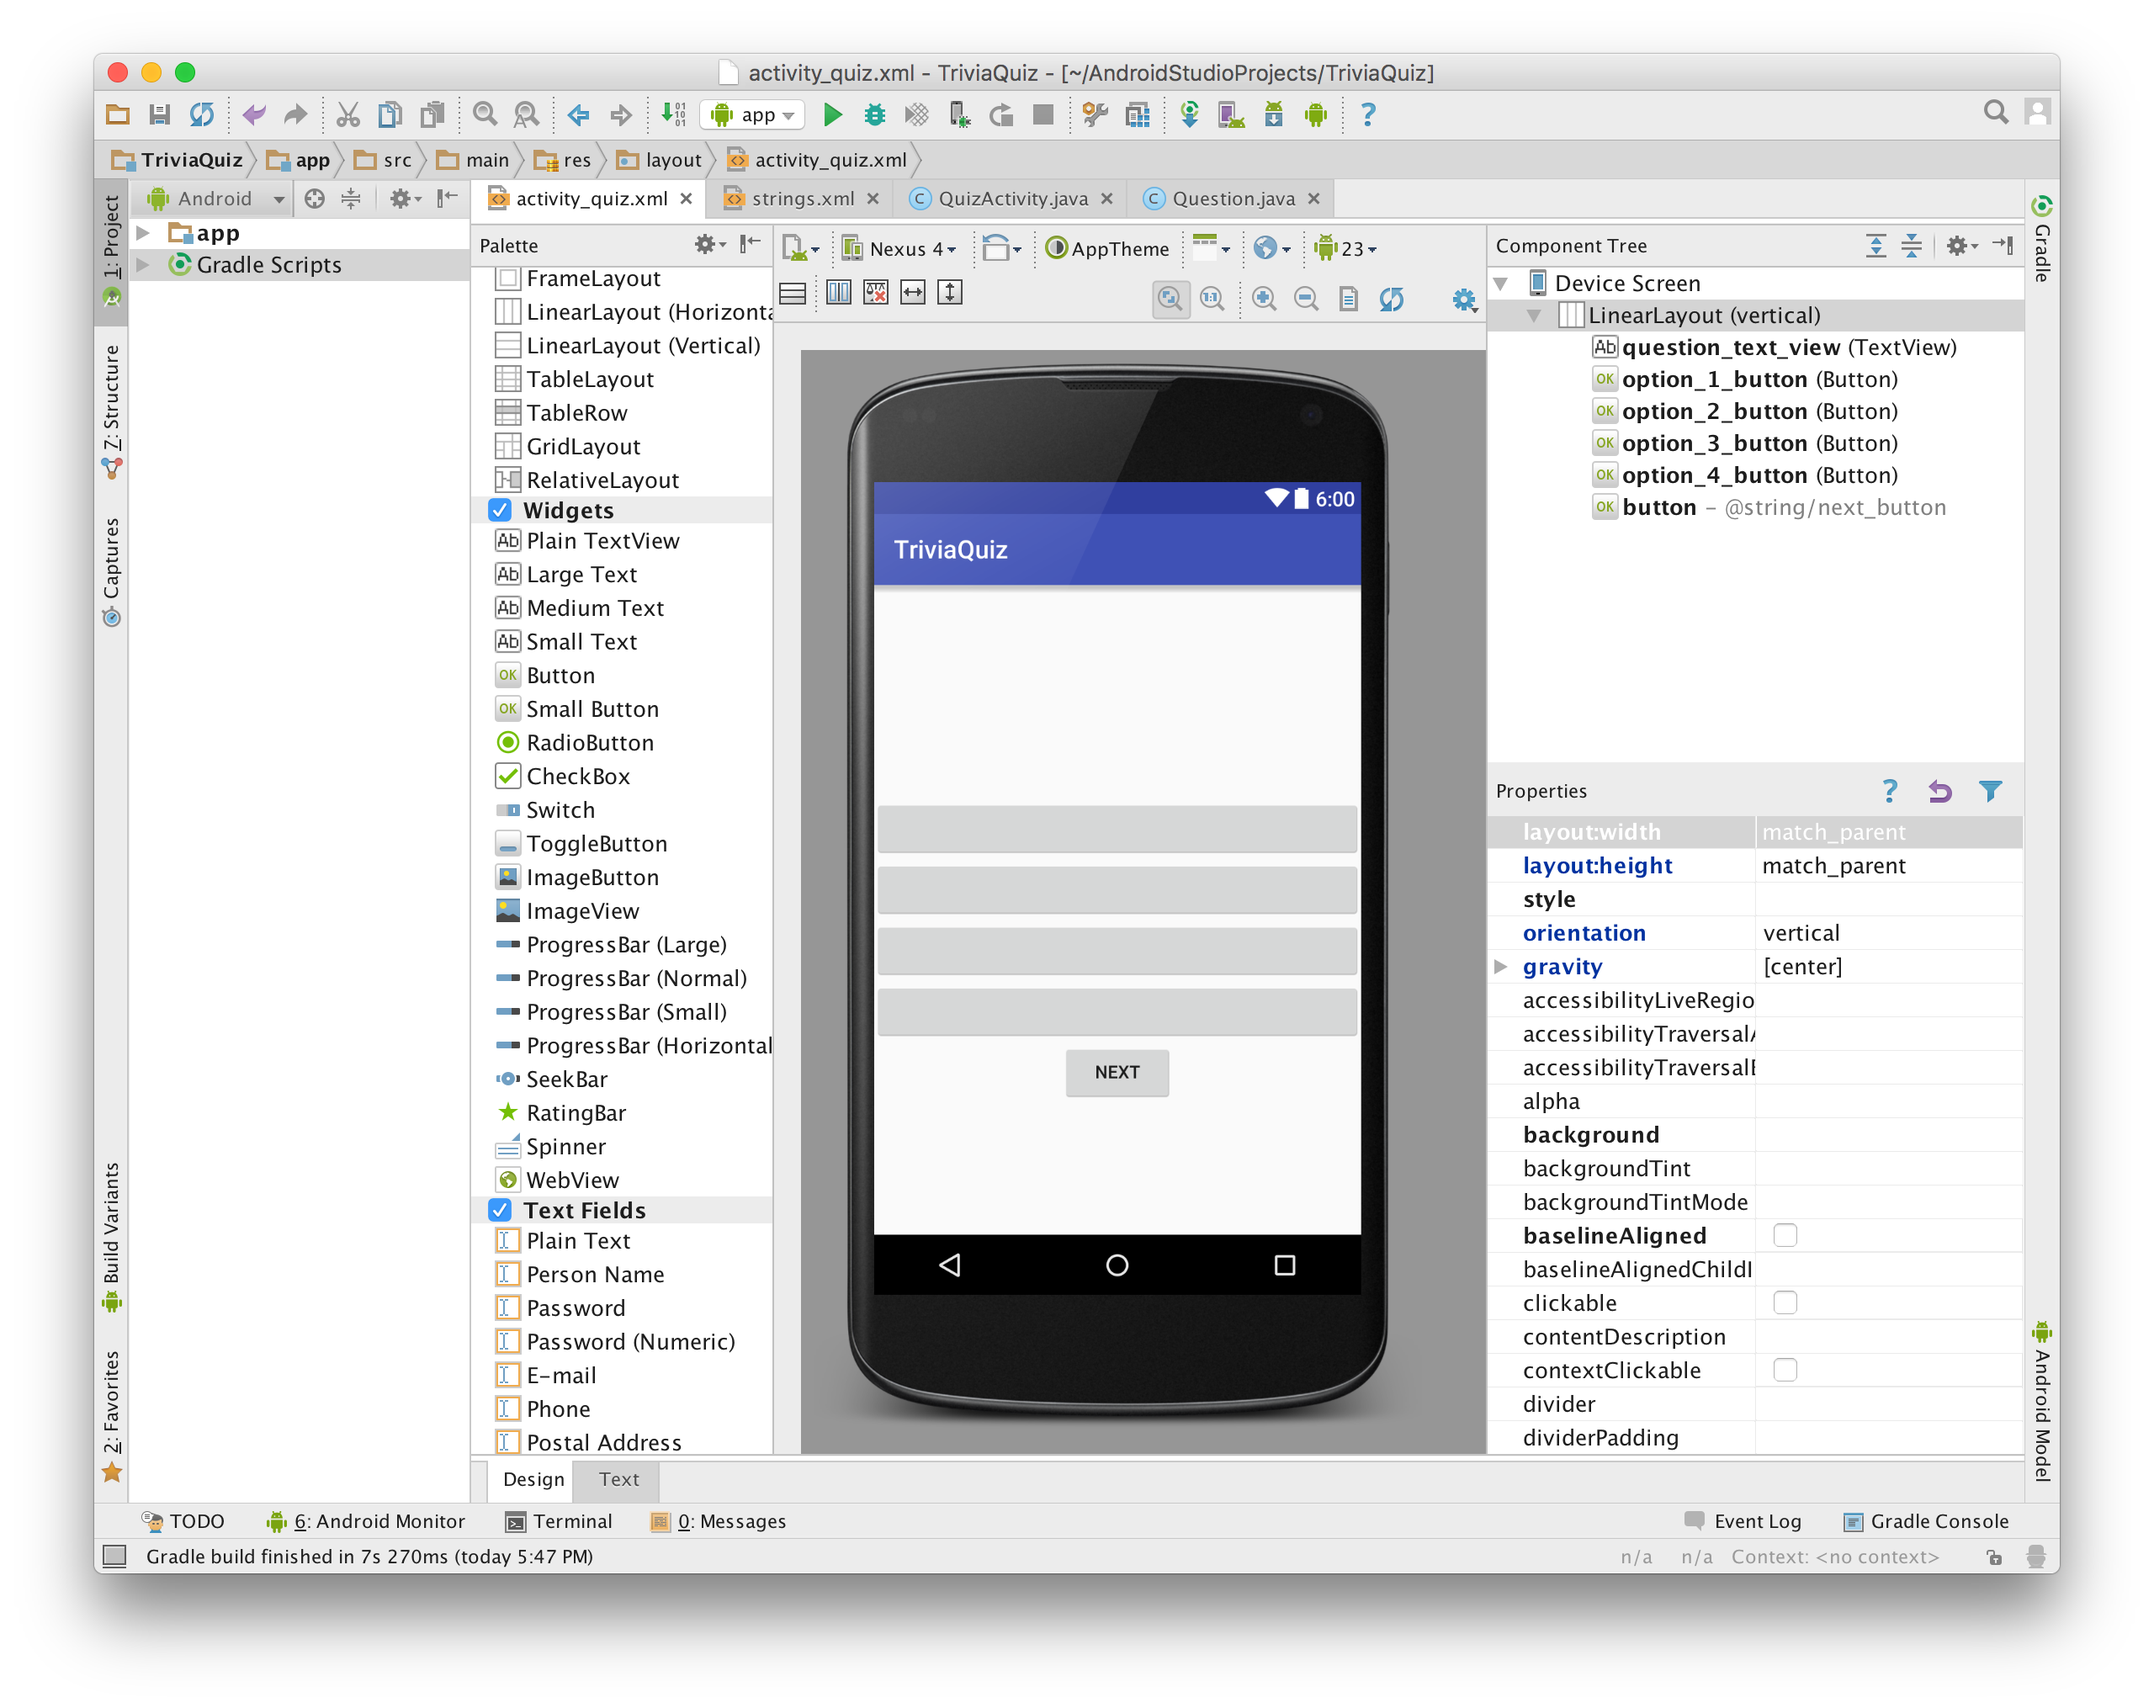
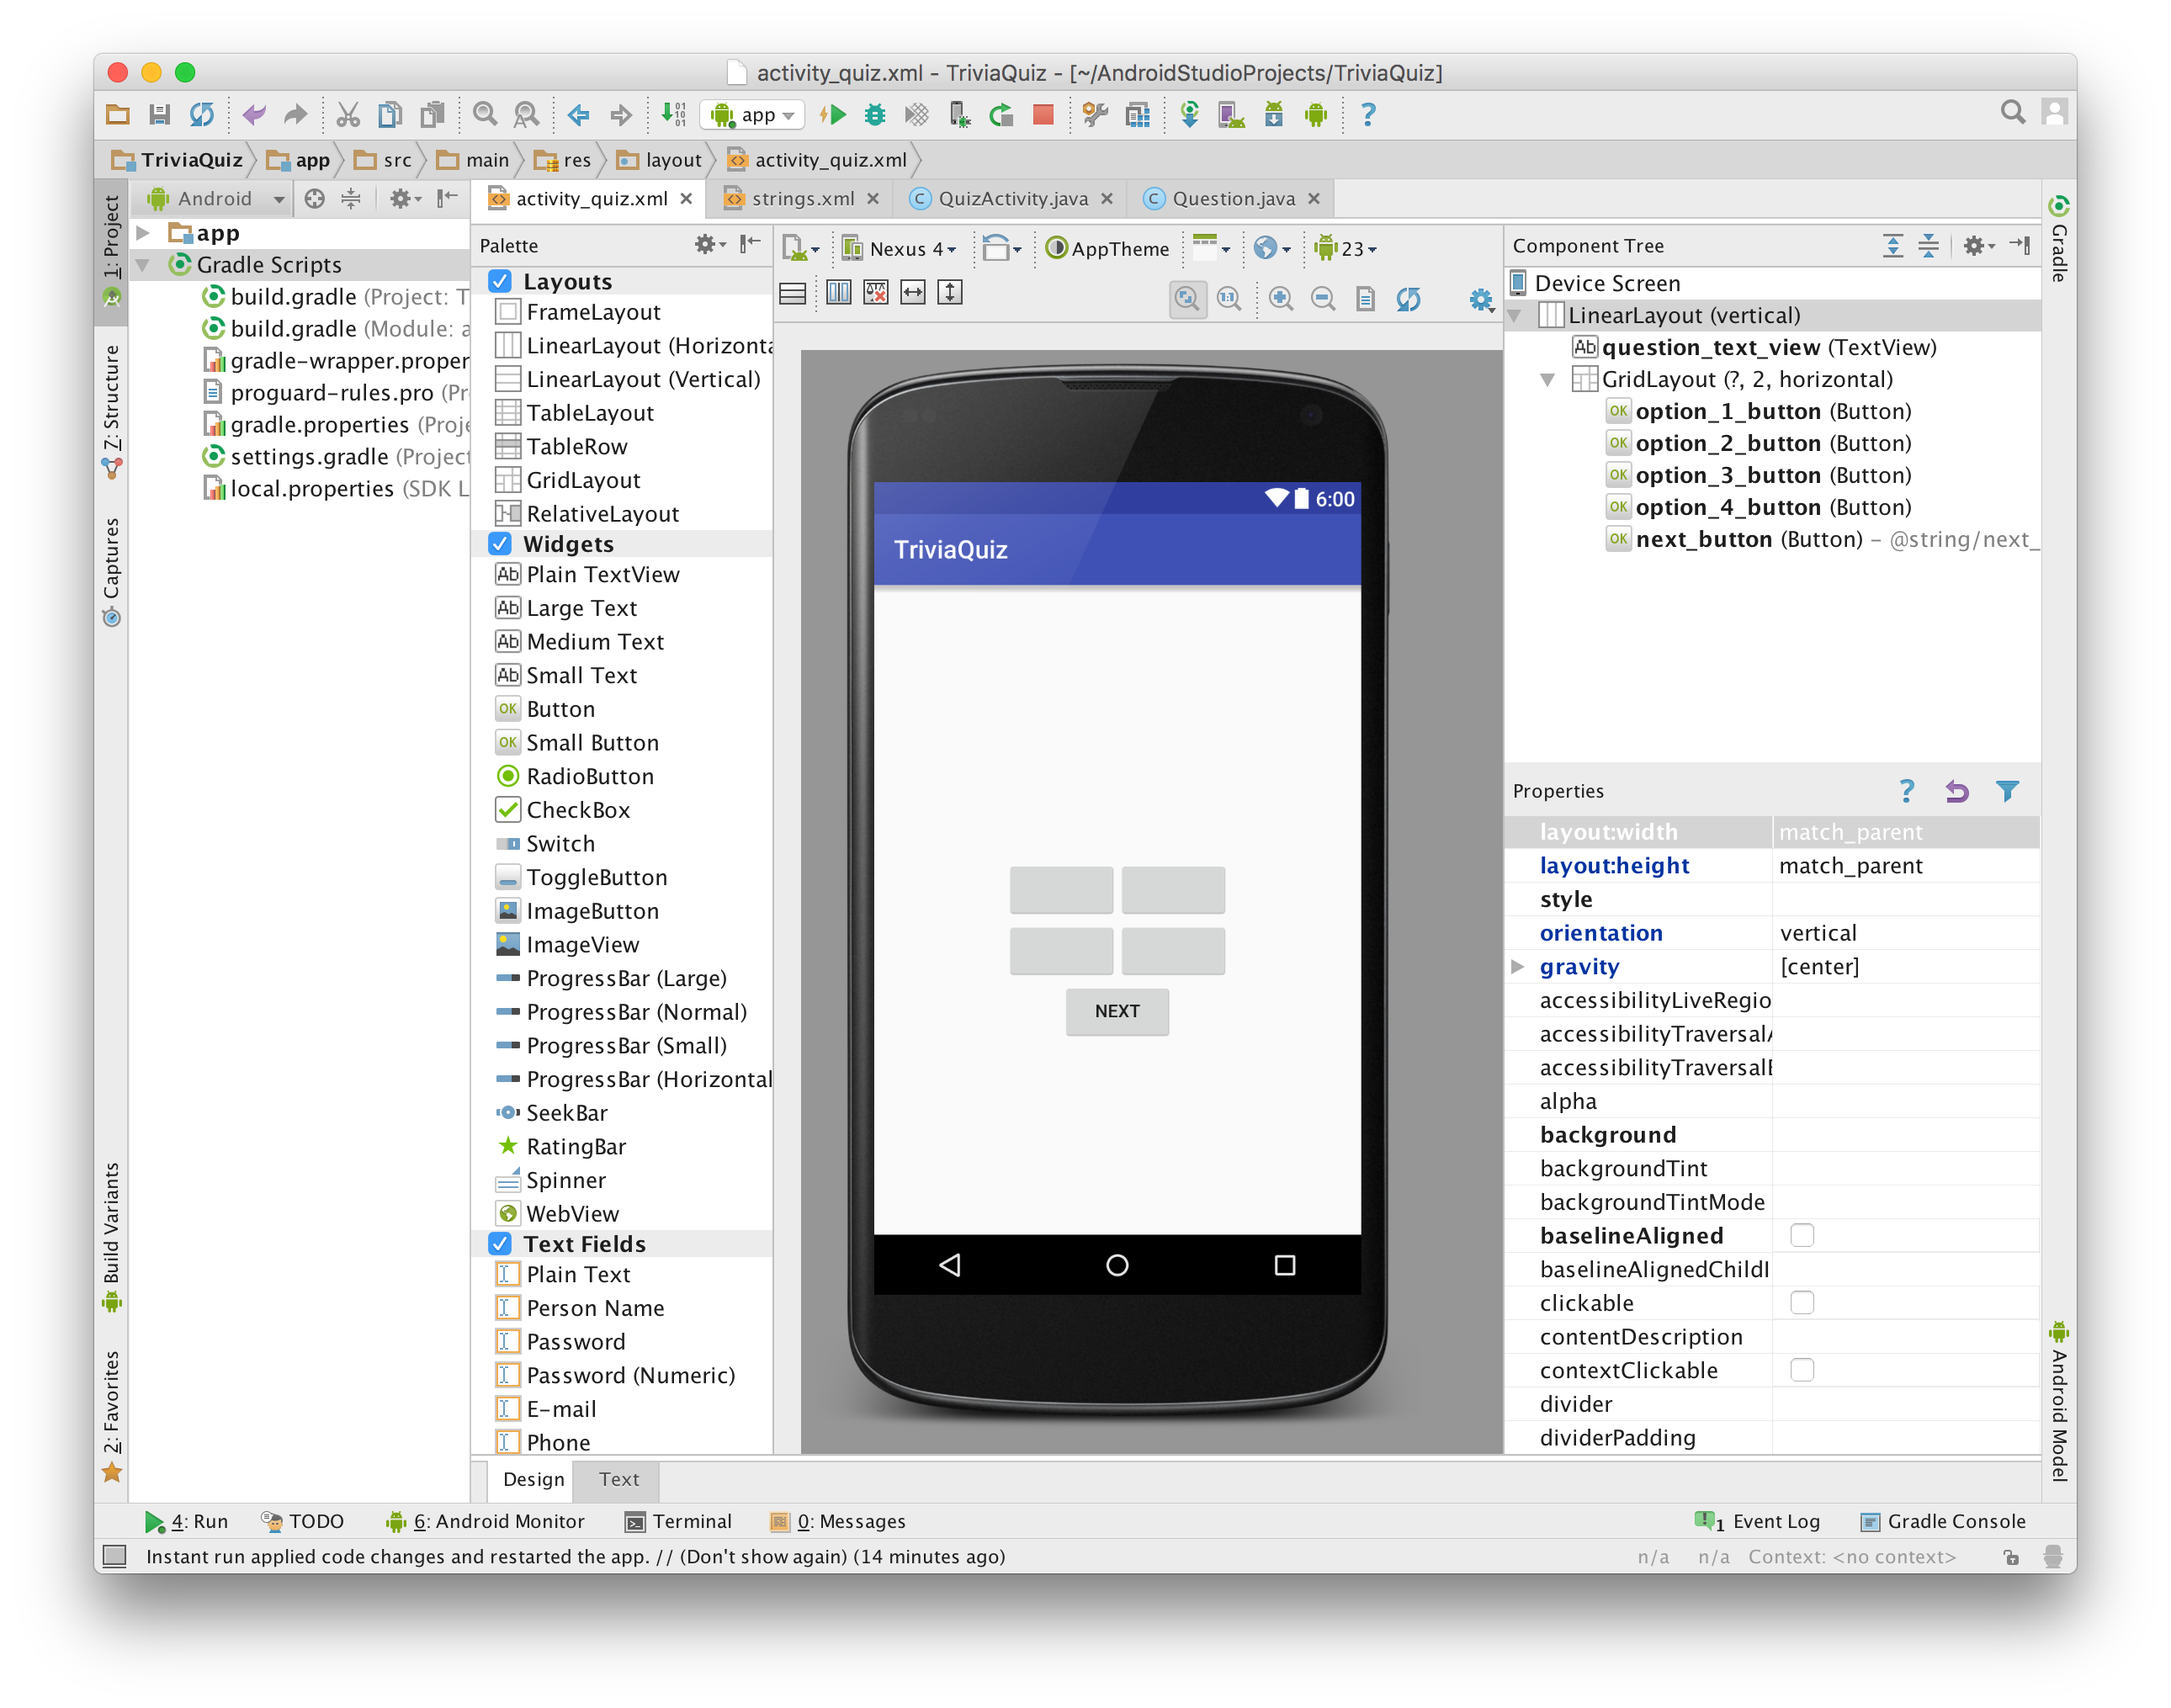
week 02: rework layout

diff --git a/week_02/readme.md b/week_02/readme.md
@@ -90,9 +90,32 @@ We'll want to programmatically change the text of these objects, so we can
 clear the values of the *text* property for each of them.  We'd also like to
 give a more descriptive ID to the *TextView* object; change it to something like
 `question_text_view`.  We'll also add a new button that will allow us to move
-to the next question.  Place it below the existing buttons and set its *id*
-property to `next_button` and it's *text* property to `@string/next_button`; we
-won't change the text of this button so it's okay for it to be hard-coded.  
+to the next question.  Before we add the new button, let's clean up the
+interface a little bit.  Let's add a *GridLayout* to the app by dragging and
+dropping it below the exiting *TextView*.  Once it's placed, set the following
+properties:
+
+| Property      | Value        |
+|:--------------|:-------------|
+| layout:width  | wrap_content |
+| layout:height | wrap_content |
+| columnCount   | 2            |
+
+Next, in the Components Window, drag and drop each of the buttons into the
+newly created *GridLayout*.  Update the *layout:width* property to
+`wrap_content` for each button.  
+
+Now, we can add a next button. Place it below the existing buttons in the
+*GridLayout* and set the following properties:
+
+| Property          | Value               |
+|:------------------|:--------------------|
+| layout:width      | wrap_content        |
+| layout:columnSpan | 2                   |
+| id                | next_button         |
+| text              | @string/next_button |
+
+We won't change the text of this button so it's okay for it to be hard-coded.  
 
 The XML for `activity_quiz.xml` should look similar to this:
 
@@ -111,36 +134,46 @@ The XML for `activity_quiz.xml` should look similar to this:
         android:layout_gravity="center_horizontal"
         android:padding="24dp" />
 
-    <Button
-        android:layout_width="fill_parent"
-        android:layout_height="wrap_content"
-        android:id="@+id/option_1_button"
-        android:layout_gravity="center_horizontal" />
-
-    <Button
-        android:layout_width="fill_parent"
-        android:layout_height="wrap_content"
-        android:id="@+id/option_2_button"
-        android:layout_gravity="center_horizontal" />
-
-    <Button
-        android:layout_width="fill_parent"
-        android:layout_height="wrap_content"
-        android:id="@+id/option_3_button"
-        android:layout_gravity="center_horizontal" />
-
-    <Button
-        android:layout_width="fill_parent"
-        android:layout_height="wrap_content"
-        android:id="@+id/option_4_button"
-        android:layout_gravity="center_horizontal" />
-
-    <Button
+    <GridLayout
         android:layout_width="wrap_content"
         android:layout_height="wrap_content"
-        android:text="@string/next_button"
-        android:id="@+id/next_button"
-        android:layout_gravity="center_horizontal"/>
+        android:layout_gravity="center_horizontal"
+        android:columnCount="2">
+
+        <Button
+            android:layout_width="wrap_content"
+            android:layout_height="wrap_content"
+            android:id="@+id/option_1_button"
+            android:layout_gravity="center_horizontal" />
+
+        <Button
+            android:layout_width="wrap_content"
+            android:layout_height="wrap_content"
+            android:id="@+id/option_2_button"
+            android:layout_gravity="center_horizontal" />
+
+        <Button
+            android:layout_width="wrap_content"
+            android:layout_height="wrap_content"
+            android:id="@+id/option_3_button"
+            android:layout_gravity="center_horizontal" />
+
+        <Button
+            android:layout_width="wrap_content"
+            android:layout_height="wrap_content"
+            android:id="@+id/option_4_button"
+            android:layout_gravity="center_horizontal" />
+
+        <Button
+            android:layout_width="wrap_content"
+            android:layout_height="wrap_content"
+            android:text="@string/next_button"
+            android:id="@+id/next_button"
+            android:layout_gravity="center_horizontal"
+            android:layout_columnSpan="2"
+            />
+    </GridLayout>
+
 </LinearLayout>
 ```
 
@@ -447,6 +480,11 @@ We can see how changes to the view layer (button clicks) require interaction
 with the model layer and how the model layer is used to populate text in the
 view layer.  Communication between these two layers is handled by the
 controller layer, *QuizActivity*.
+
+When we start the app and answer the first question incorrectly, we should
+see something similar to the following:
+
+![wrong](images/incorrect.png)
 
 
 ## Activities
